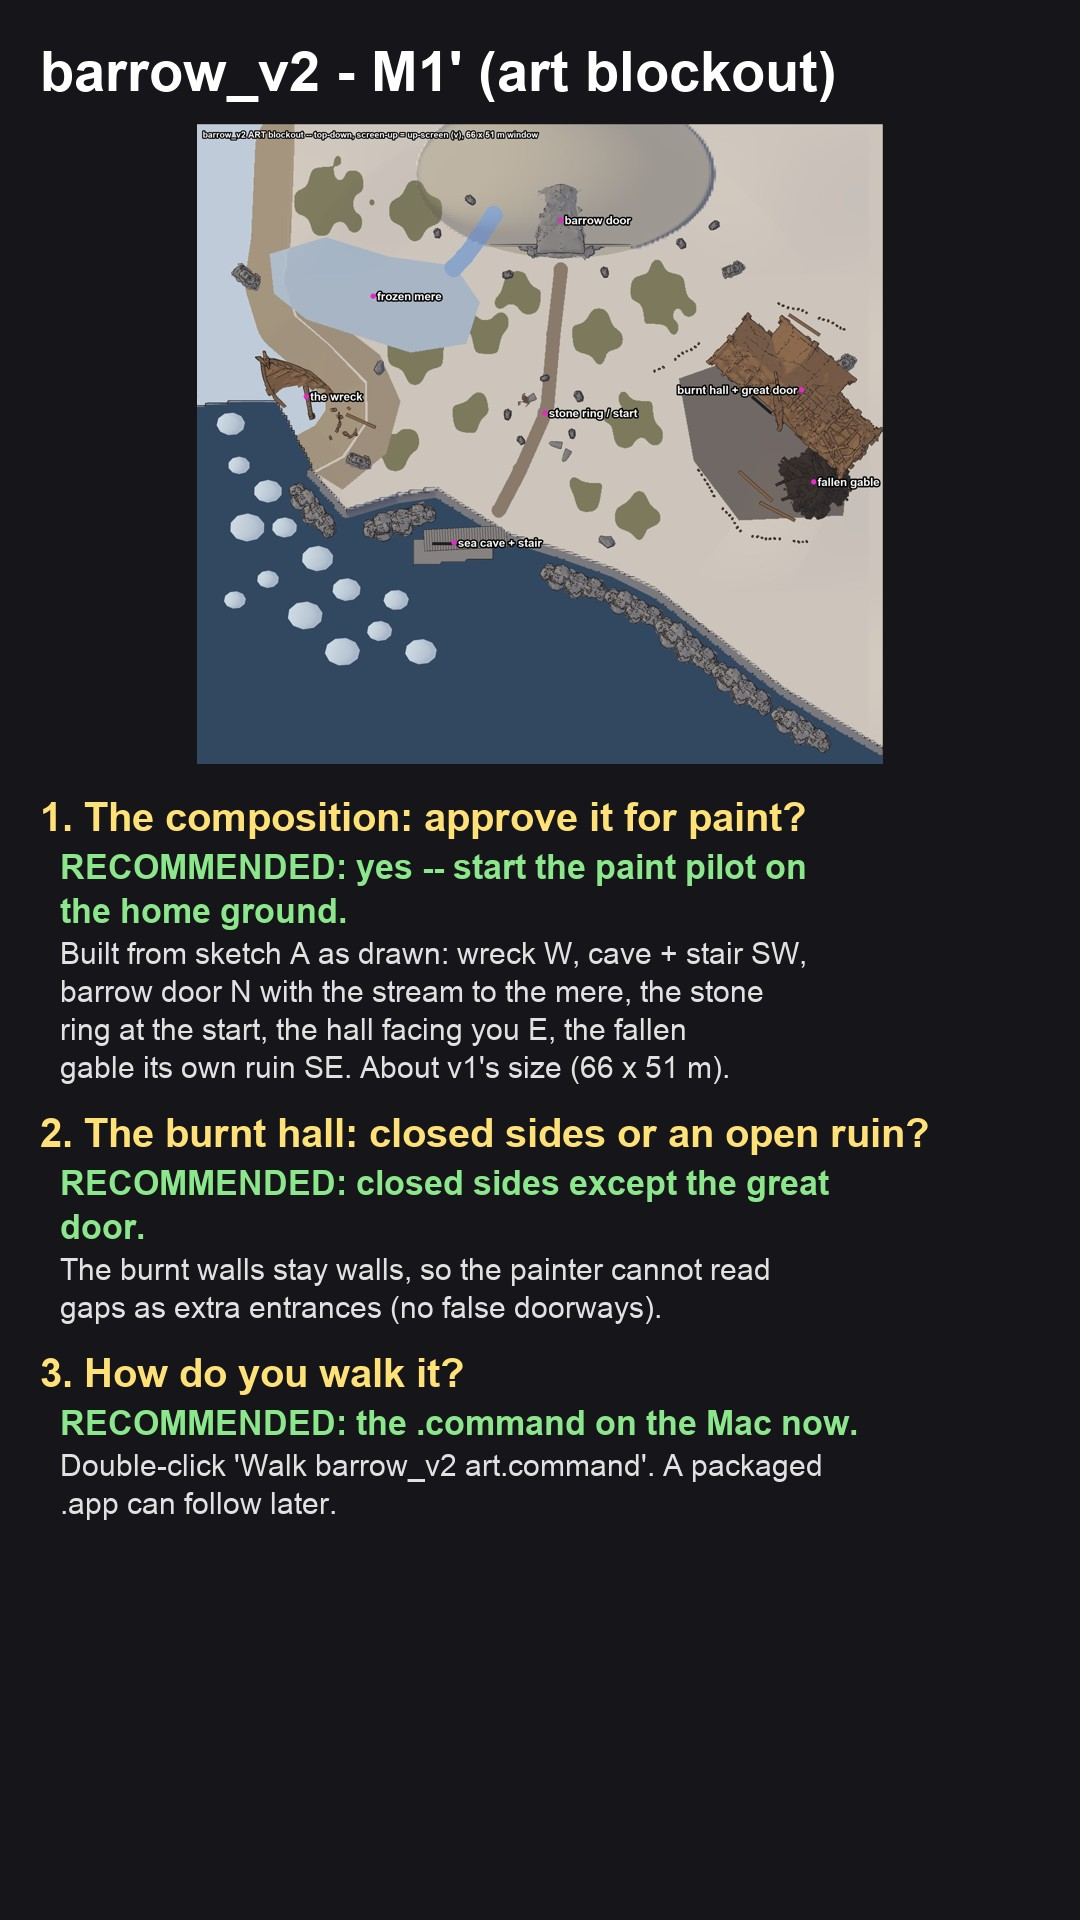
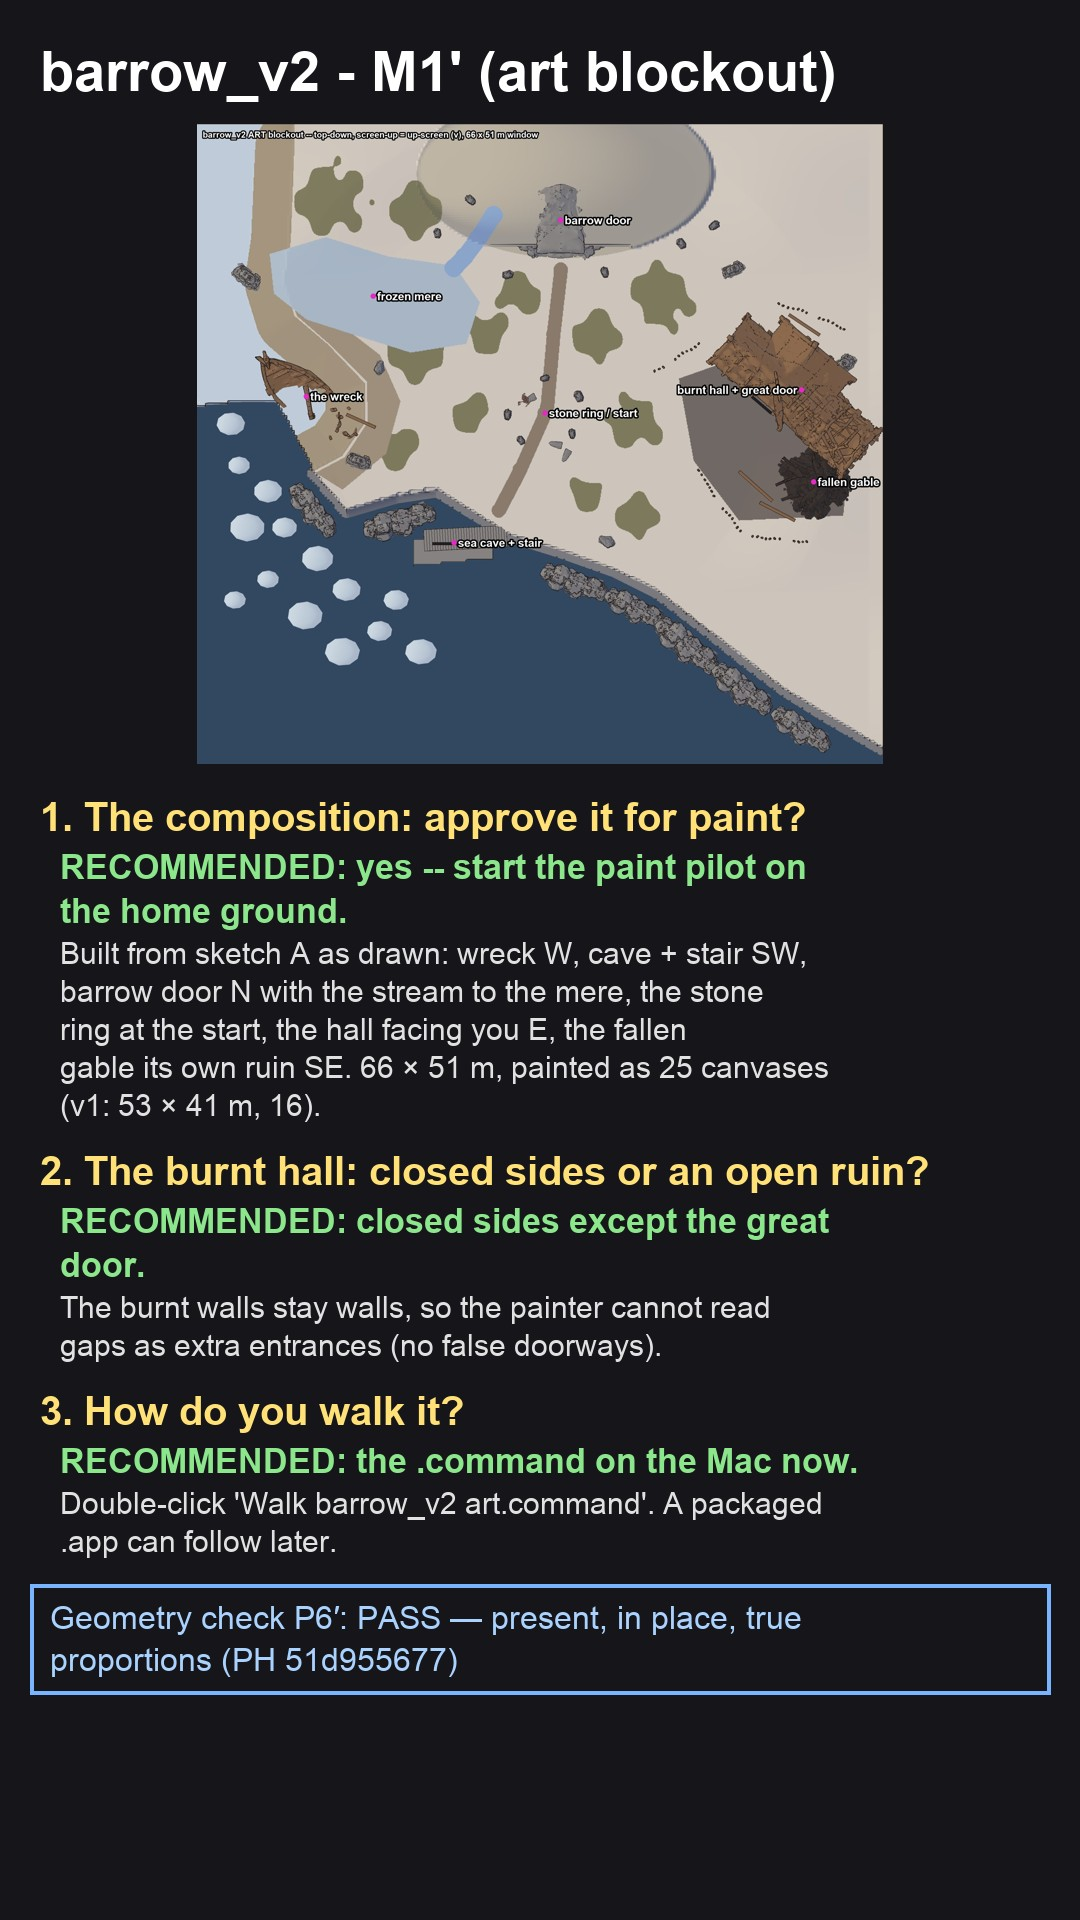
drax(C-9 P2 BV2F LV, R-C9-187): M1' cover -- measured footprint (66 x 51 m, 25 canvases; v1 53 x 41 m, 16) + P6' PASS line; README top
Claude-Session: https://claude.ai/code/session_01Synmhf8YqWSEU9Kpsm5JJK

Changed region(s): [[0.0306, 0.5312, 0.8556, 0.9062], [0.9472, 0.8125, 0.9778, 0.9062]]

diff --git a/astra_test_01/burst/runs/C-9/barrow_v2/fid/lv/tools/lv_m1p_packet.py b/astra_test_01/burst/runs/C-9/barrow_v2/fid/lv/tools/lv_m1p_packet.py
@@ -82,7 +82,7 @@ def cover():
     mp = Image.open(os.path.join(M, "M1p_map.jpg")).convert("RGB"); mp.thumbnail((1000, 640))
     im.paste(mp, ((W - mp.width) // 2, y)); y += mp.height + 30
     asks = [("1. The composition: approve it for paint?", "RECOMMENDED: yes -- start the paint pilot on the home ground.",
-             "Built from sketch A as drawn: wreck W, cave + stair SW, barrow door N with the stream to the mere, the stone ring at the start, the hall facing you E, the fallen gable its own ruin SE. About v1's size (66 x 51 m)."),
+             "Built from sketch A as drawn: wreck W, cave + stair SW, barrow door N with the stream to the mere, the stone ring at the start, the hall facing you E, the fallen gable its own ruin SE. 66 × 51 m, painted as 25 canvases (v1: 53 × 41 m, 16)."),
             ("2. The burnt hall: closed sides or an open ruin?", "RECOMMENDED: closed sides except the great door.",
              "The burnt walls stay walls, so the painter cannot read gaps as extra entrances (no false doorways)."),
             ("3. How do you walk it?", "RECOMMENDED: the .command on the Mac now.", "Double-click 'Walk barrow_v2 art.command'. A packaged .app can follow later.")]
@@ -93,6 +93,10 @@ def cover():
         for line in textwrap.wrap(why, 56):
             d.text((60, y), line, fill=(225, 225, 225), font=R(30)); y += 38
         y += 22
+    d.rectangle([30, y, W - 30, y + 110], outline=(120, 180, 255), width=4)
+    for i, line in enumerate(textwrap.wrap("Geometry check P6\u2032: PASS \u2014 present, in place, true proportions (PH 51d955677)", 54)[:2]):
+        d.text((50, y + 16 + 42 * i), line, fill=(170, 210, 255), font=R(32))
+    y += 110
     p = os.path.join(M, "M1p_cover.jpg"); im.save(p, quality=90); print("cover px used", y); return p
 
 

diff --git a/astra_test_01/burst/runs/C-9/barrow_v2/fid/lv/M1p/M1p_README.md b/astra_test_01/burst/runs/C-9/barrow_v2/fid/lv/M1p/M1p_README.md
@@ -1,9 +1,11 @@
 # M1′ packet: barrow_v2 ART blockout (Matt R-C9-185; charter v1.0 § 15)
 
 **Cover (`M1p_cover.jpg`, one phone screen): three asks, one recommendation each**
-1. **Approve the composition for paint?** Recommended: yes, and start the paint pilot on the home ground.
+1. **Approve the composition for paint?** Recommended: yes, and start the paint pilot on the home ground. The site is 66 × 51 m, painted as 25 canvases (v1: 53 × 41 m, 16).
 2. **Burnt hall: closed sides except the great door, or an open-sided ruin?** Recommended: closed sides except the great door, so there are no false doorways.
 3. **How to walk it?** Recommended: the `.command` launcher on the Mac now; a packaged .app later.
+
+Geometry check P6′: PASS — present, in place, true proportions (PH 51d955677).
 
 **Files**
 - `M1p_cover.jpg` — the cover.
